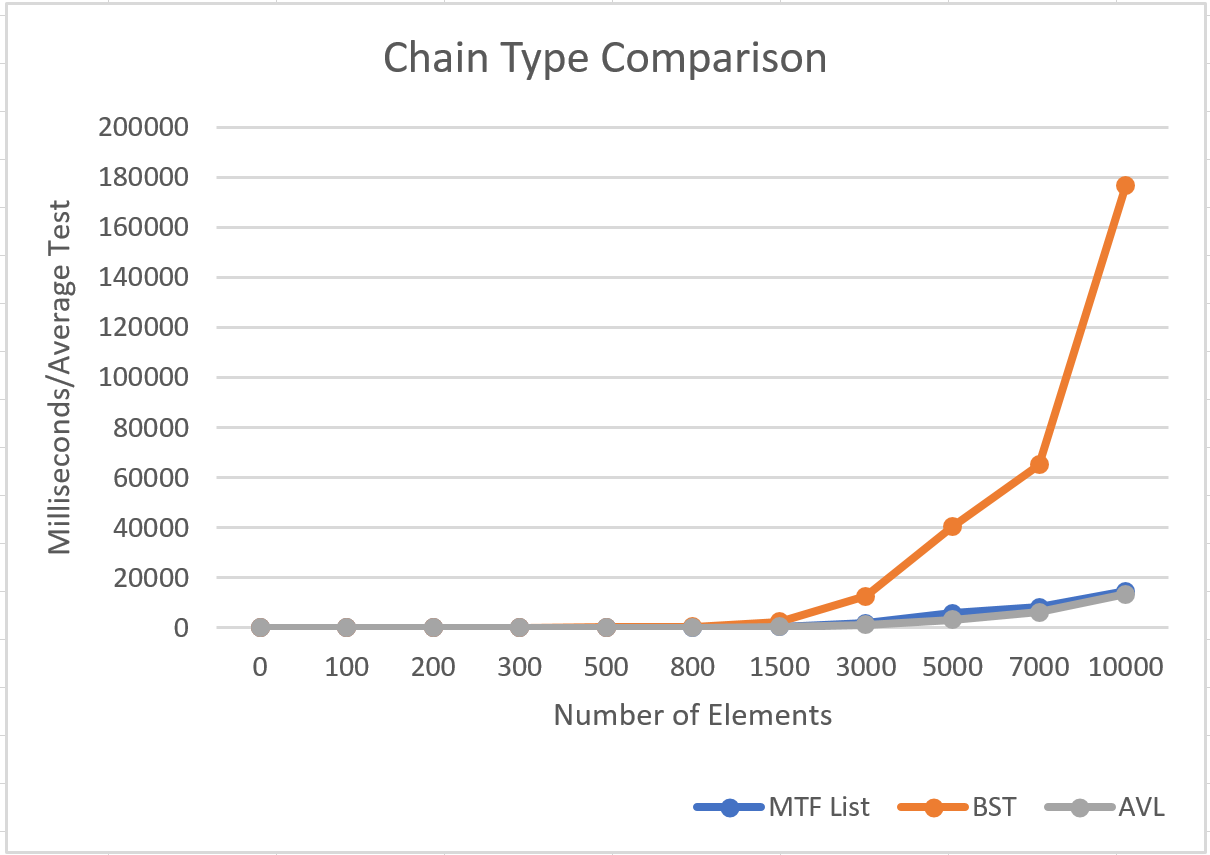
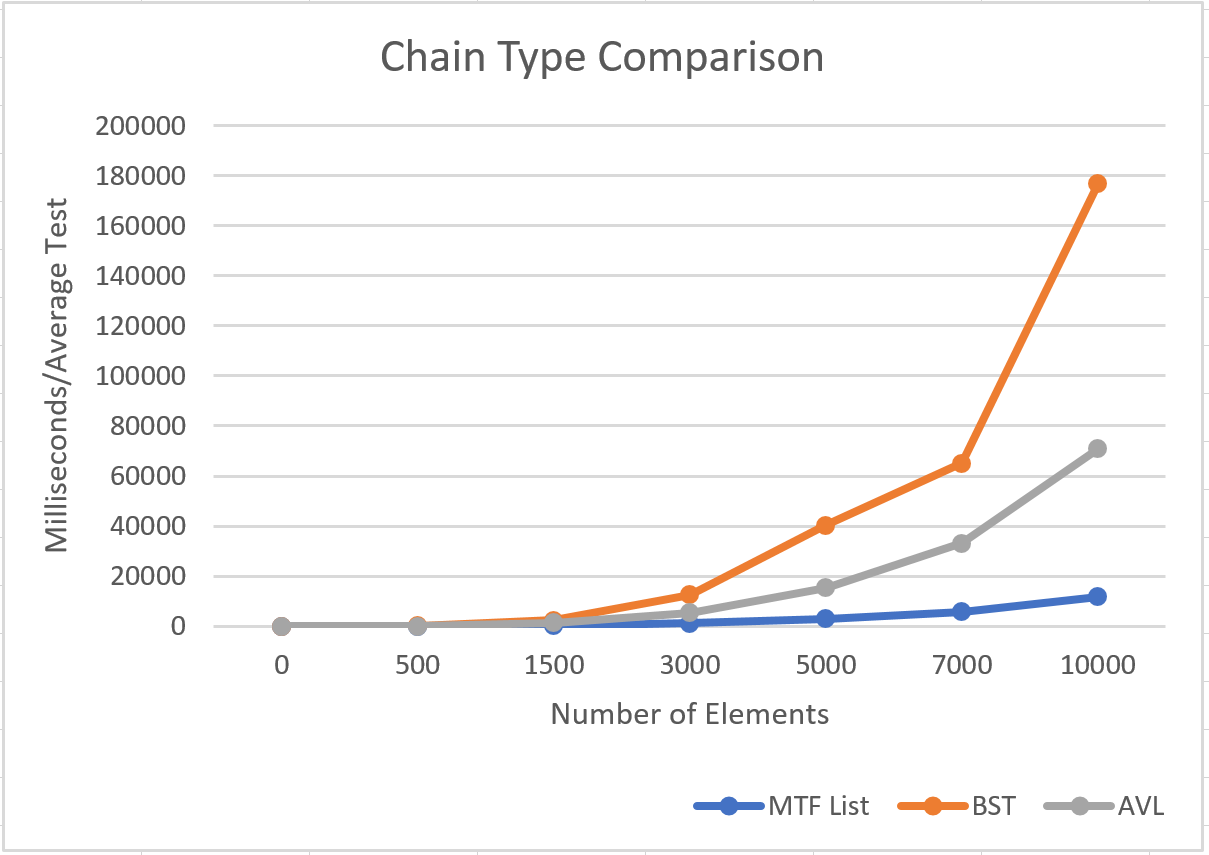
finished everything but umessage write up

diff --git a/src/hashExperiments/ChainingHashTableExp.java b/src/hashExperiments/ChainingHashTableExp.java
@@ -12,21 +12,22 @@ public class ChainingHashTableExp {
     
     public static void main(String[] args) {
         for (int i = 0; i < 10; i++) {
-            if (n < 300) {
-                n += 100;
-            } else if (n < 500) {
-                n += 200;
-            } else if (n < 800) {
-                n += 300;
-            } else if (n < 1500) {
-                n += 700;
-            } else if (n < 3000) {
-                n += 1500;
-            } else if (n < 7000) {
-                n += 2000;
-            } else {
-                n += 3000;
-            }
+//            if (n < 300) {
+//                n += 100;
+//            } else if (n < 500) {
+//                n += 200;
+//            } else if (n < 800) {
+//                n += 300;
+//            } else if (n < 1500) {
+//                n += 700;
+//            } else if (n < 3000) {
+//                n += 1500;
+//            } else if (n < 7000) {
+//                n += 2000;
+//            } else {
+//                n += 3000;
+//            }
+            n = 20000;
             fulltest();
         }
     }
@@ -39,7 +40,7 @@ public class ChainingHashTableExp {
         for (int i = 0; i < NUM_TESTS; i++) {
             long startTime = System.currentTimeMillis();
             // Put whatever you want to time here .....
-            test("avl");
+            test("mtf");
             long endTime = System.currentTimeMillis();
             if (NUM_WARMUP <= i) { // Throw away first NUM_WARMUP runs to exclude JVM warmup
                 totalTime += (endTime - startTime);
@@ -59,11 +60,11 @@ public class ChainingHashTableExp {
     public static int test(String type) {
         ChainingHashTable<String, Integer> list;
         if (type.equals("mtf")) { // mtf list
-            list = new ChainingHashTable<>(() -> new MoveToFrontList<>());
+            list = new ChainingHashTable<String, Integer>(() -> new MoveToFrontList<>());
         } else if (type.equals("bst")) { // bst list
             list = new ChainingHashTable<String, Integer>(() -> new BinarySearchTree<>());
         } else if (type.equals("avl")){ // avl list
-            list = new ChainingHashTable<String, Integer>(() -> new MoveToFrontList<>());
+            list = new ChainingHashTable<String, Integer>(() -> new AVLTree<>());
         } else {
             throw new IllegalArgumentException();
         }

diff --git a/src/chat/uMessage.java b/src/chat/uMessage.java
@@ -25,6 +25,7 @@ import javax.swing.JProgressBar;
 import javax.swing.SwingUtilities;
 import javax.swing.SwingWorker;
 
+import cse332.datastructures.trees.BinarySearchTree;
 import cse332.interfaces.misc.Dictionary;
 import cse332.types.AlphabeticString;
 import cse332.types.NGram;
@@ -32,12 +33,12 @@ import p2.clients.NGramTester;
 import p2.wordsuggestor.WordSuggestor;
 
 public class uMessage {
-    private static int N = 2;
-    private static String CORPUS = "alice.txt";
+    private static int N = 3;
+    private static String CORPUS = "irc.corpus";
     private static Supplier<Dictionary<NGram, Dictionary<AlphabeticString, Integer>>> NEW_OUTER = NGramTester
-            .trieConstructor(NGram.class);
+            .hashtableConstructor(() -> new BinarySearchTree());
     private static Supplier<Dictionary<AlphabeticString, Integer>> NEW_INNER = NGramTester
-            .trieConstructor(AlphabeticString.class);
+            .hashtableConstructor(() -> new BinarySearchTree());
 
     /*
      *

diff --git a/src/p2/writeup/WriteUp.md b/src/p2/writeup/WriteUp.md
@@ -19,14 +19,14 @@ would be more guidance for it as in the end, I relied upon asking TA's to help g
 process.
 
 - How could the project be improved? Why?
-- 
+
   This project felt a little rushed, especially considering the fact that there were midterms in
 between. I know the two weeks before checkpoint 2 already took this into account, but nonetheless
 it ultimately still was not enough to complete checkpoint 2, especially because of the long debugging
 process for AVLTree and for understanding what to do for HashTrieMap Full Circle.
 
 - Did you enjoy the project?  Why or why not?
-- 
+
   Yes, I enjoyed this project a lot, even more so than project 1. This idea of building uMessage was really exciting,
 and implementing the data structures and sorts was a blast. It felt great to use all our knowledge from class and the last
 six weeks to make something that is relevant in today's world.
@@ -84,9 +84,9 @@ Your ChainingHashTable should take as an argument to its constructor the type of
 which type of chain is (on average, not worst case) best: an MTFList, a BST, or an AVL Tree.  Explain your intuition on why
 the answer you got makes sense (or doesn't!).
 
-In this experiment to look at average speed, I used the testHugeHashtable's base code to test the insertion and find for each type of chain. I looked at a large range of numbers from 100 to 10000, and compiled the data into a graph comparing the time it took for each time of chain to complete the test for every different value of n values.
+In this experiment to look at average speed, I used the testHugeHashtable's base code to test the insertion and find for each type of chain. I looked at a large range of numbers from 500 to 10000, and compiled the data into a graph comparing the time it took for each time of chain to complete the test for every different value of n values.
 
-From the graph it is obvious that the BST is significantly worse than both the AVL and MTFlist. This brings an interesting point as the values and graph for AVL and MTFlist are extremely close with AVL always a little ahead. The difference is so marginal that it is safe to assume that they have around the same runtime and are generally the same in terms of effectiveness and speed. My intuition for this is that because the BST is not self-balancing, the more items that are stored in the BST the more cluttered it becomes and the further down branches find and insertion operations will have to travel. This issue is not present in AVL and MTFlist therefore it makes sense that they are considerably faster.
+From the graph it is obvious that ordering from best to worst is MTFlist then AVL then BST. My intuition for this is that because the BST is not self-balancing, the more items that are stored in the BST the more cluttered it becomes and the further down branches find and insertion operations will have to travel. This issue is less of a concern for the AVL Tree since it balances and makes find and insert operations have to travel a shorter distance down the tree. The reason why even AVL Tree is beat out by MTFlist is because of the O(1) time it takes for an item to be inserted into the MTFlist and the O(logn) time it takes for an item to be inserted into the AVL Tree. This is compounded even further when resizing of the hashtable array occurs because every single value in the hashtable. Overall they are all asymptotically exponential but even then that ordering still holds.
  
  ![](ChainTypeComparison.PNG)
  
@@ -95,7 +95,7 @@ Write a new hash function (it doesn't have to be any good, but remember to inclu
 Compare the runtime of your ChainingHashTable when the hash function is varied.  How big of a difference can the
 hash function make (on average, not worst case)?  (You should keep all other inputs (e.g., the chain type) constant.)  Explain your intuition on why your results are what they are.
 
-To test this case, I created an experiment to test the runtimes between two different hash functions, one that was originally used for the ChainingHashTable based upon the slides, and another that simple returns the hashcode of the entire array. In order to isolate the difference in timing based upon the hashcode, I used AVL as the chain type for both tests and kept everything else the same. I looked at the a range of numbers from 100 to 10000 and used the insert and find functions to compared them in a bar graph to show the difference between the two values at each time. Just as I expected, the hashcode I created based off the slides for p2 was quite a bit faster than the simple hashcode I created. This is because the hashcode algorithm is based upon creating unique hashcodes for every single value so that it limits the amount of collisions that occur. A simple hashcode algorithm does not sufficiently create a unique enough hashcode and will most likely give similar hashcodes to a larger amount of objects than a better one will. These collisions will effect both the insert and find of the hashtable as every collision means more work to do for both methods. Inserting will take longer as more spots will be filled and the hashtable will have to go further into each chain in order to place the item and finding has the same issue.
+To test this case, I created an experiment to test the runtimes between two different hash functions, one that was originally used for the ChainingHashTable based upon the slides, and another that simple returns the hashcode of the entire array. In order to isolate the difference in timing based upon the hashcode, I used MTF as the chain type for both tests and kept everything else the same. I looked at the a range of numbers from 100 to 10000 and used the insert and find functions to compared them in a bar graph to show the difference between the two values at each time. Just as I expected, the hashcode I created based off the slides for p2 was quite a bit faster than the simple hashcode I created. This is because the hashcode algorithm is based upon creating unique hashcodes for every single value so that it limits the amount of collisions that occur. A simple hashcode algorithm does not sufficiently create a unique enough hashcode and will most likely give similar hashcodes to a larger amount of objects than a better one will. These collisions will effect both the insert and find of the hashtable as every collision means more work to do for both methods. Inserting will take longer as more spots will be filled and the hashtable will have to go further into each chain in order to place the item and finding has the same issue.
 
 ![](HashFunctionComparison.PNG)
 
